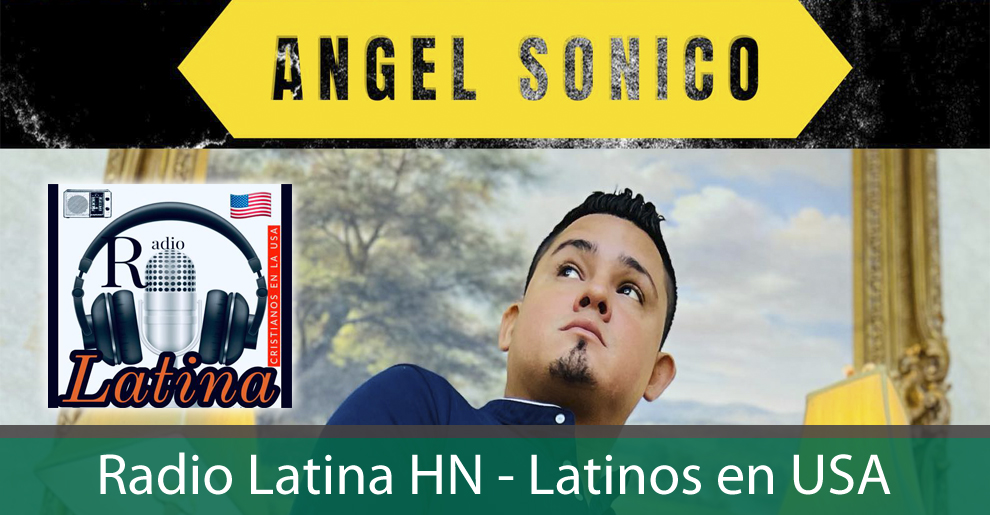
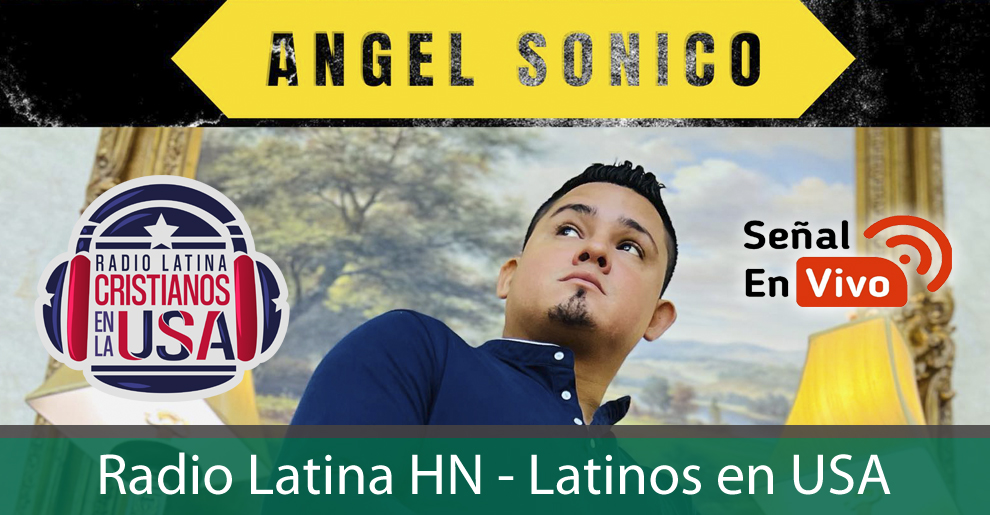
D
D

diff --git a/play_darwin/LatinaPlay.html b/play_darwin/LatinaPlay.html
@@ -42,7 +42,7 @@ $("#lunaradio").lunaradio({
 	fontname: "Saira Condensed",
 	googlefont: "Saira+Condensed:wght@100",
 	fontratio: "0.3",
-	radioname: "ESCUCHANDO AHORA, Radio Latina HN",
+	radioname: "ESCUCHANDO AHORA, Radio Latina HN, Cristianos en la USA",
 	scroll: "true",
 	coverimage: "vr.png",
 	usevisualizer: "fake",
@@ -56,12 +56,12 @@ $("#lunaradio").lunaradio({
 	itunestoken: "1000lIPN",
 	metadatatechnic: "corsproxy",
 	ownmetadataurl: "",
-	streamurl: "https://node-15.zeno.fm/c1x2mbfadxhvv",
+	streamurl: "https://stream-30.zeno.fm/spxumkxbgfhvv",
 	streamtype: "radiozeno",
 	icecastmountpoint: "/radio.mp3",
 	radionomyid: "",
 	radionomyapikey: "",
-	radiozenoid: "c1x2mbfadxhvv",
+	radiozenoid: "spxumkxbgfhvv",
 	radiojarid: "",
 	radiocoid: "",
 	shoutcastpath: "/stream",

diff --git a/index.html b/index.html
@@ -46,7 +46,7 @@ a:active {
   <link rel="stylesheet" href="css/animations.css">
 <meta http-equiv="Content-Type" content="text/html; charset=iso-8859-1">
 <meta http-equiv="Content-Type" content="text/html; charset=UTF-8" />
-<title>Radio Latina &copy; Cristianos en la USA</title>
+<title>Radio Latina &copy; Cristianos en la USA, Emisora On-Line 24/7</title>
 
     <!-- sl_vivemuuuu -->
     <script src="Sl_latin/jquery.js"></script>
